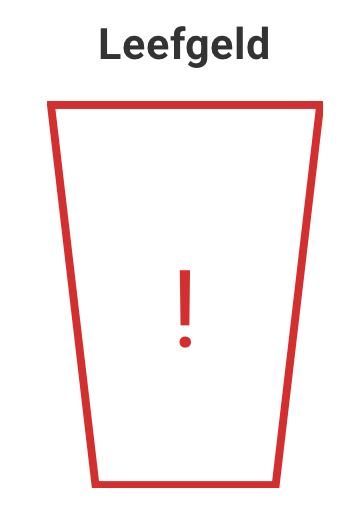
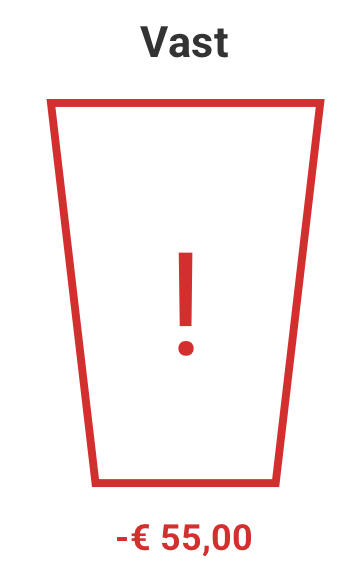
kleine fixes

Changed region(s): [[0.1143, 0.0302, 0.9429, 0.9962], [0.4857, 0.4226, 0.5714, 0.6642]]

diff --git a/docs/4-toewijzen.md b/docs/4-toewijzen.md
@@ -8,7 +8,7 @@
 * [toewijzen](8-woordenlijst.md#toewijzen) verdeelt het beschikbare geld (de [buffer](8-woordenlijst.md#buffer)) in volgorde van prioriteit over de [potjes voor nu](8-woordenlijst.md#potjes-voor-nu)
 * [toewijzen](8-woordenlijst.md#toewijzen) houdt GEEN rekening met handmatige verplaatsingen van geld tussen potjes in de huidige periode;
 * [toewijzen](8-woordenlijst.md#toewijzen) vult de potjes tot het einde van de [buffer](8-woordenlijst.md#buffer) of tot het volgende (verwachte) inkomsten moment; bij het einde van de [buffer](8-woordenlijst.md#buffer) wordt de laatste dag, vóór het einde van de [buffer](8-woordenlijst.md#buffer), helemaal gevuld en de daarop volgende (die dus niet volledig kan worden gevuld) blijft leeg; deze dag "vóór het einde van de [buffer](8-woordenlijst.md#buffer)" of "voor het volgende inkomstenmoment" is de [toewijzingshorizon](8-woordenlijst.md#toewijzingshorizon)
-* als [vaste lasten](8-woordenlijst.md#vaste-lasten) kunnen variëren reserveer je het maximum dat je kwijt denkt te zijn; een vaste last wordt [aangevuld TOT](8-woordenlijst.md#aanvullen-tot-of-aanvullen-met) dus de elke periode wordt het bedrag van de vorige periode daadwerkelijk gereserveerd
+* als [vaste lasten](8-woordenlijst.md#vaste-lasten) kunnen variëren wijs je het maximum toe dat je kwijt denkt te zijn; een vaste last wordt [aangevuld TOT](8-woordenlijst.md#aanvullen-tot-of-aanvullen-met) dus de elke periode wordt het bedrag van de vorige periode daadwerkelijk toegewezen
 * na het toewijzen krijgt de gebruiker (in de app) terugkoppeling of het gelukt is; als het niet is gelukt krijgt de gebruiker terugkoppeling **wat** er niet is gelukt; na het toewijzen kan de gebruiker handmatig de potjes herverdelen
 * het is aan te raden spaarpotjes een lage prioriteit (dus een hoog getal) te geven
 * het is aan te raden de spaarpotjes op (een) spaarrekening(en) te zetten, in de app wordt dit inzichtelijk gemaakt

diff --git a/docs/8-woordenlijst.md b/docs/8-woordenlijst.md
@@ -77,16 +77,17 @@ Een potje (ook wel “budgetpotje” genoemd) is een afgebakend bedrag dat je ap
 
 ### Potjes voor nu
 
-* [Leefgeld](#leefgeld), [vaste lasten](#vaste-lasten) en [Aflossing](#aflossen)
+* [Leefgeld](#leefgeld), [Vaste lasten](#vaste-lasten) en [Aflossing](#aflossen)
 
 ### Potjes voor later
 
 * Spaarpotjes, dus potjes om te sparen
 
-### Toewijzingshorizon
+### Sparen
 
-* datum tot wanneer de potjes zijn gevuld
-* in de app wordt de [toewijzingshorizon](#toewijzingshorizon) opgeslagen bij de betalingen die de toewijzingen boeken;
+* het opzij zetten van een deel van je geld, met als doel het later gebruiken voor toekomstige uitgaven of onverwachte situaties, zodat er een financiële [buffer](#buffer) ontstaat.
+* [Sparen](#sparen) kán een [budget](#budget) bedrag (je kunt ook gewoon wat 'over' is apart zetten)
+* [Sparen](#sparen) kán een doel hebben (met een doeldatum en een doelbedrag)
 
 ### Toewijzen
 
@@ -94,11 +95,10 @@ Een potje (ook wel “budgetpotje” genoemd) is een afgebakend bedrag dat je ap
 * waarover je NU kan beschikken,
 * met als doel dat, wanneer je het nodig hebt, je er nog steeds over beschikt
 
-### Sparen
+### Toewijzingshorizon
 
-* het opzij zetten van een deel van je geld, met als doel het later gebruiken voor toekomstige uitgaven of onverwachte situaties, zodat er een financiële [buffer](#buffer) ontstaat.
-* [Sparen](#sparen) kán een [budget](#budget) bedrag (je kunt ook gewoon wat 'over' is apart zetten)
-* [Sparen](#sparen) kán een doel hebben (met een doeldatum en een doelbedrag)
+* datum tot wanneer de potjes zijn gevuld
+* in de app wordt de [toewijzingshorizon](#toewijzingshorizon) opgeslagen bij de betalingen die de toewijzingen boeken;
 
 ### Vaste lasten
 
